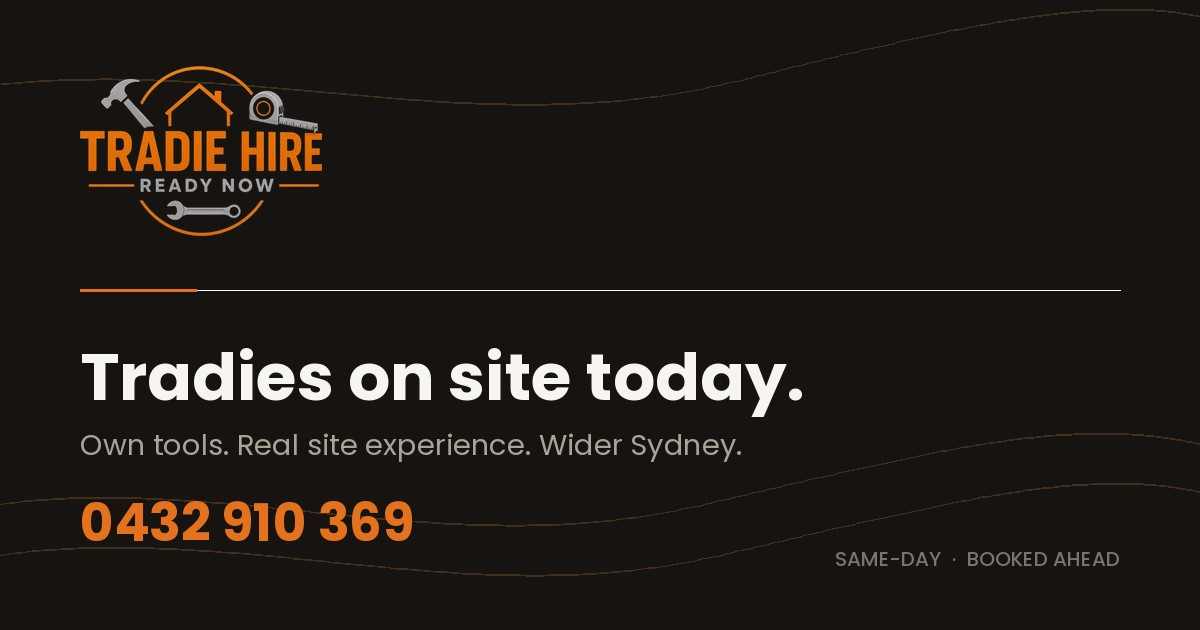
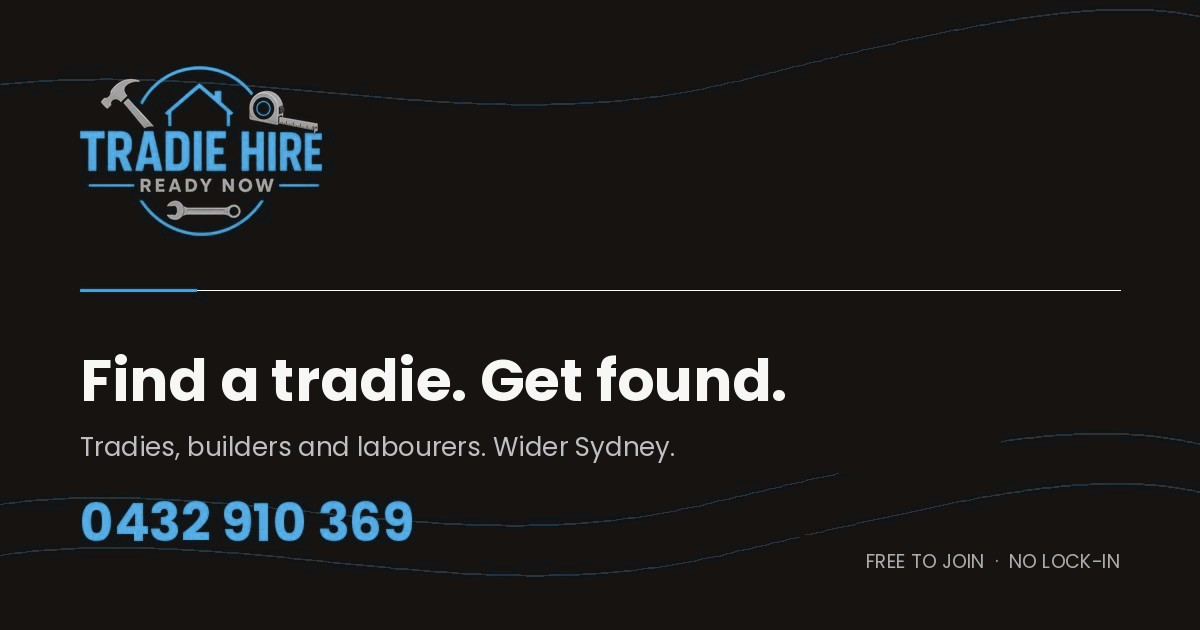
Homepage hero and meta for the directory, recolour link preview image
Claude-Session: https://claude.ai/code/session_011zKuPuPKRNiRVGDCJRhoHS

diff --git a/index.html b/index.html
@@ -3,8 +3,8 @@
 <head>
 <meta charset="UTF-8">
 <meta name="viewport" content="width=device-width, initial-scale=1.0">
-<title>Labour Hire Sydney | Ready Now Tradie Hire — Tradies On Site Today</title>
-<meta name="description" content="Qualified tradies, work-ready apprentices and reliable labourers across Sydney. Carpentry, electrical, plumbing, tiling, traffic control and general labour.">
+<title>Find a Tradie in Sydney | Ready Now Tradie Hire</title>
+<meta name="description" content="Find tradies, builders and labourers across wider Sydney and call them direct. On the tools? List your trade free and get hired.">
 <link rel="icon" href="/favicon.ico" sizes="any">
 <link rel="icon" type="image/png" sizes="32x32" href="/favicon-32x32.png">
 <link rel="icon" type="image/png" sizes="16x16" href="/favicon-16x16.png">
@@ -16,15 +16,15 @@
 <meta property="og:site_name" content="Ready Now Tradie Hire">
 <meta property="og:locale" content="en_AU">
 <meta property="og:url" content="https://readynowtradiehire.com.au/">
-<meta property="og:title" content="Labour Hire Sydney | Ready Now Tradie Hire">
-<meta property="og:description" content="Ready Now Tradie Hire supplies qualified tradies, work-ready apprentices and reliable labourers across wider Sydney. Carpentry, electrical, plumbing, tiling, concreting, roofing, traffic control, forklift and general labour. Call +61 432 910 369.">
+<meta property="og:title" content="Find a Tradie in Sydney | Ready Now Tradie Hire">
+<meta property="og:description" content="Find tradies, builders and labourers across wider Sydney and call them direct. On the tools? List your trade free and get hired.">
 <meta property="og:image" content="https://readynowtradiehire.com.au/og-image.jpg">
 <meta property="og:image:width" content="1200">
 <meta property="og:image:height" content="630">
-<meta property="og:image:alt" content="Ready Now Tradie Hire — tradies on site today, wider Sydney">
+<meta property="og:image:alt" content="Ready Now Tradie Hire, find a tradie across wider Sydney">
 <meta name="twitter:card" content="summary_large_image">
-<meta name="twitter:title" content="Labour Hire Sydney | Ready Now Tradie Hire">
-<meta name="twitter:description" content="Ready Now Tradie Hire supplies qualified tradies, work-ready apprentices and reliable labourers across wider Sydney. Carpentry, electrical, plumbing, tiling, concreting, roofing, traffic control, forklift and general labour. Call +61 432 910 369.">
+<meta name="twitter:title" content="Find a Tradie in Sydney | Ready Now Tradie Hire">
+<meta name="twitter:description" content="Find tradies, builders and labourers across wider Sydney and call them direct. On the tools? List your trade free and get hired.">
 <meta name="twitter:image" content="https://readynowtradiehire.com.au/og-image.jpg">
 <link rel="preconnect" href="https://fonts.googleapis.com">
 <link rel="preconnect" href="https://fonts.gstatic.com" crossorigin>
@@ -535,9 +535,9 @@ footer{background:var(--olive-deep);color:var(--white);padding:72px 20px 0}
   <div class="hero-content wrap px" style="width:100%">
     <p class="hero-label">Ready Now Tradie Hire &middot; Wider Sydney</p>
     <h1>
-      Skilled tradies, apprentices<span class="sp"> </span><span class="br"></span>
-      and labourers on site across Sydney &mdash;<span class="sp"> </span><span class="br"></span>
-      <em>ready now.</em>
+      Tradies, builders and labourers<span class="sp"> </span><span class="br"></span>
+      across Sydney, one call away.<span class="sp"> </span><span class="br"></span>
+      <em>Ready now.</em>
     </h1>
     <div class="hero-cta">
       <div class="hero-btns">
@@ -552,7 +552,7 @@ footer{background:var(--olive-deep);color:var(--white);padding:72px 20px 0}
       </div>
       <div class="badge-pill">
         <svg viewBox="0 0 24 24" fill="none" stroke="#4894C4" stroke-width="2" stroke-linecap="round" stroke-linejoin="round" style="fill:none"><circle cx="12" cy="12" r="10"/><path d="M8 12.5l2.5 2.5L16 9.5"/></svg>
-        <span class="bp-text">Own Tools &middot; Site Ready</span>
+        <span class="bp-text">Free to Join &middot; No Lock-in</span>
         <span class="bp-chip">SYD</span>
       </div>
     </div>
